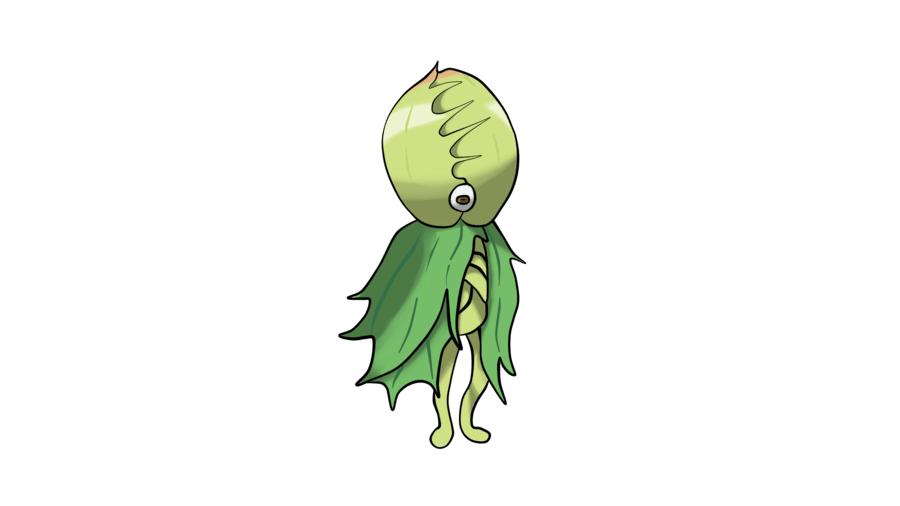
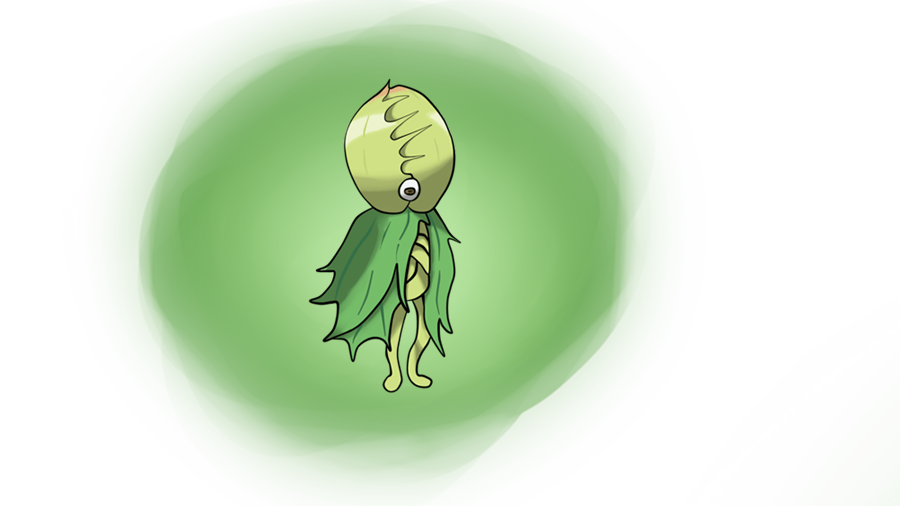
Meu deus

diff --git a/Final/src/pages/PokemonPage3/index.jsx b/Final/src/pages/PokemonPage3/index.jsx
@@ -1,15 +1,18 @@
 import Header from "../../components/header"
 import femea from '../../components/assets/images/femea.png'
 import macho from '../../components/assets/images/Macho.png'
-import poke from '../../components/assets/images/Grasstalker.png'
+import poke from '../../components/assets/images/Forest.png'
 import grass from '../../components/assets/images/grama.png'
 import gelo from '../../components/assets/images/gelo.png'
 import fogo from '../../components/assets/images/fogo.png'
 import voador from '../../components/assets/images/voador.png'
 import venenoso from '../../components/assets/images/poison.png'
 import inseto from '../../components/assets/images/inseto.png'
+import dark from '../../components/assets/images/dark.png'
+import luta from '../../components/assets/images/luta.png'
+
+
 import {useNavigate } from 'react-router-dom'
-import { Link } from "react-router-dom"
 
 export default function PokemonPage2() {
 
@@ -19,15 +22,15 @@ export default function PokemonPage2() {
         <>
         <Header/>
         <div className='poke'>
-            <button onClick={() => Navigate(-1)}>&#11164;Herbkeep #02</button>
-           <Link to = "/Foresterror"><button>Foresterror #03 &#11166;</button></Link> 
+            <button onClick={() => Navigate(-1)}>&#11164;Grasstalker #02</button>
+            <button>Flambull #03 &#11166;</button>
 
-           <h3 id='title-p'>Grasstalker #02</h3> 
+           <h3 id='title-p'>Foresterror #03</h3> 
            <img src={poke} alt="" />
 
         </div>
            <div className='descrição'>
-            <h4>Grasstalker, o Pokémon Escondido, é um Pokémon misterioso que habita florestas densas e pouco exploradas. Conhecido por sua habilidade de se camuflar perfeitamente entre as plantas, ele é um mestre na arte do esconderijo. Sua pele se adapta ao ambiente, tornando-o quase invisível, exceto por seu olho penetrante. Nunca ninguém viu o que existe dentro de seu bulbo.</h4>
+            <h4>Foresterror emerge das sombras quando a floresta está em perigo ou quando sente uma presença invasora. Sua aparência intimidadora é marcada por galhos retorcidos que formam uma espécie de coroa, e suas folhas agora escuras exalam uma energia ameaçadora. Seu Bulbo aflora em uma forma muito mais violenta, diferente de suas pré evoluções. <br /> O olhar de Foresterror é hipnotizante, e dizem que quem o encara sente o peso de seus pecados contra o meio ambiente. </h4>
     
 
            </div>
@@ -40,6 +43,7 @@ export default function PokemonPage2() {
 
             <p>Tipo:</p>
             <img id='type' src={grass} />
+            <img id='type' src={dark} />
 
             <p id='weak'>Fraquezas:</p>
             <img id='type' src={gelo} />
@@ -47,6 +51,8 @@ export default function PokemonPage2() {
             <img id='type' src={voador} />
             <img id='type' src={venenoso} />
             <img id='type' src={inseto} />
+            <img id='type' src={luta} />
+
 
 
            </div>

diff --git a/Final/src/pages/PokemonPage/style.css b/Final/src/pages/PokemonPage/style.css
@@ -39,7 +39,7 @@
 .descrição{
 
     text-align: start;
-    margin-top: -35%;
+    margin-top: -36%;
     background-color: #30a6d4;
     border-radius: 3px;
     margin-left: 50%;
@@ -61,7 +61,7 @@
     display: flex;
     flex-direction: row;
     margin-left: 12%;
-    margin-top: -20%;
+    margin-top: -22%;
     
     border: none;
     
@@ -86,7 +86,7 @@
 .status{
 
     text-align: start;
-    margin-top: -20%;
+    margin-top: -21%;
     border-radius: 3px;
     margin-left: 50%;
     padding-bottom: 4%;

diff --git a/Final/src/pages/Mainpage/App.jsx b/Final/src/pages/Mainpage/App.jsx
@@ -3,6 +3,7 @@ import RegisterPage from "../Register";
 import PokeP from "../PokemonPage/pokemon.jsx"
 import Home from '../../components/home'
 import Poke2 from '../PokemonPage2/index.jsx'
+import Poke3 from '../PokemonPage3/index.jsx'
 
 function App() {
  
@@ -20,6 +21,10 @@ function App() {
 
                 <Route path = "/Grasstalker"
                 Component={Poke2}/>
+
+                <Route path = "/Foresterror"
+                Component={Poke3}/>
+
             </Routes>
         </Router>
 
